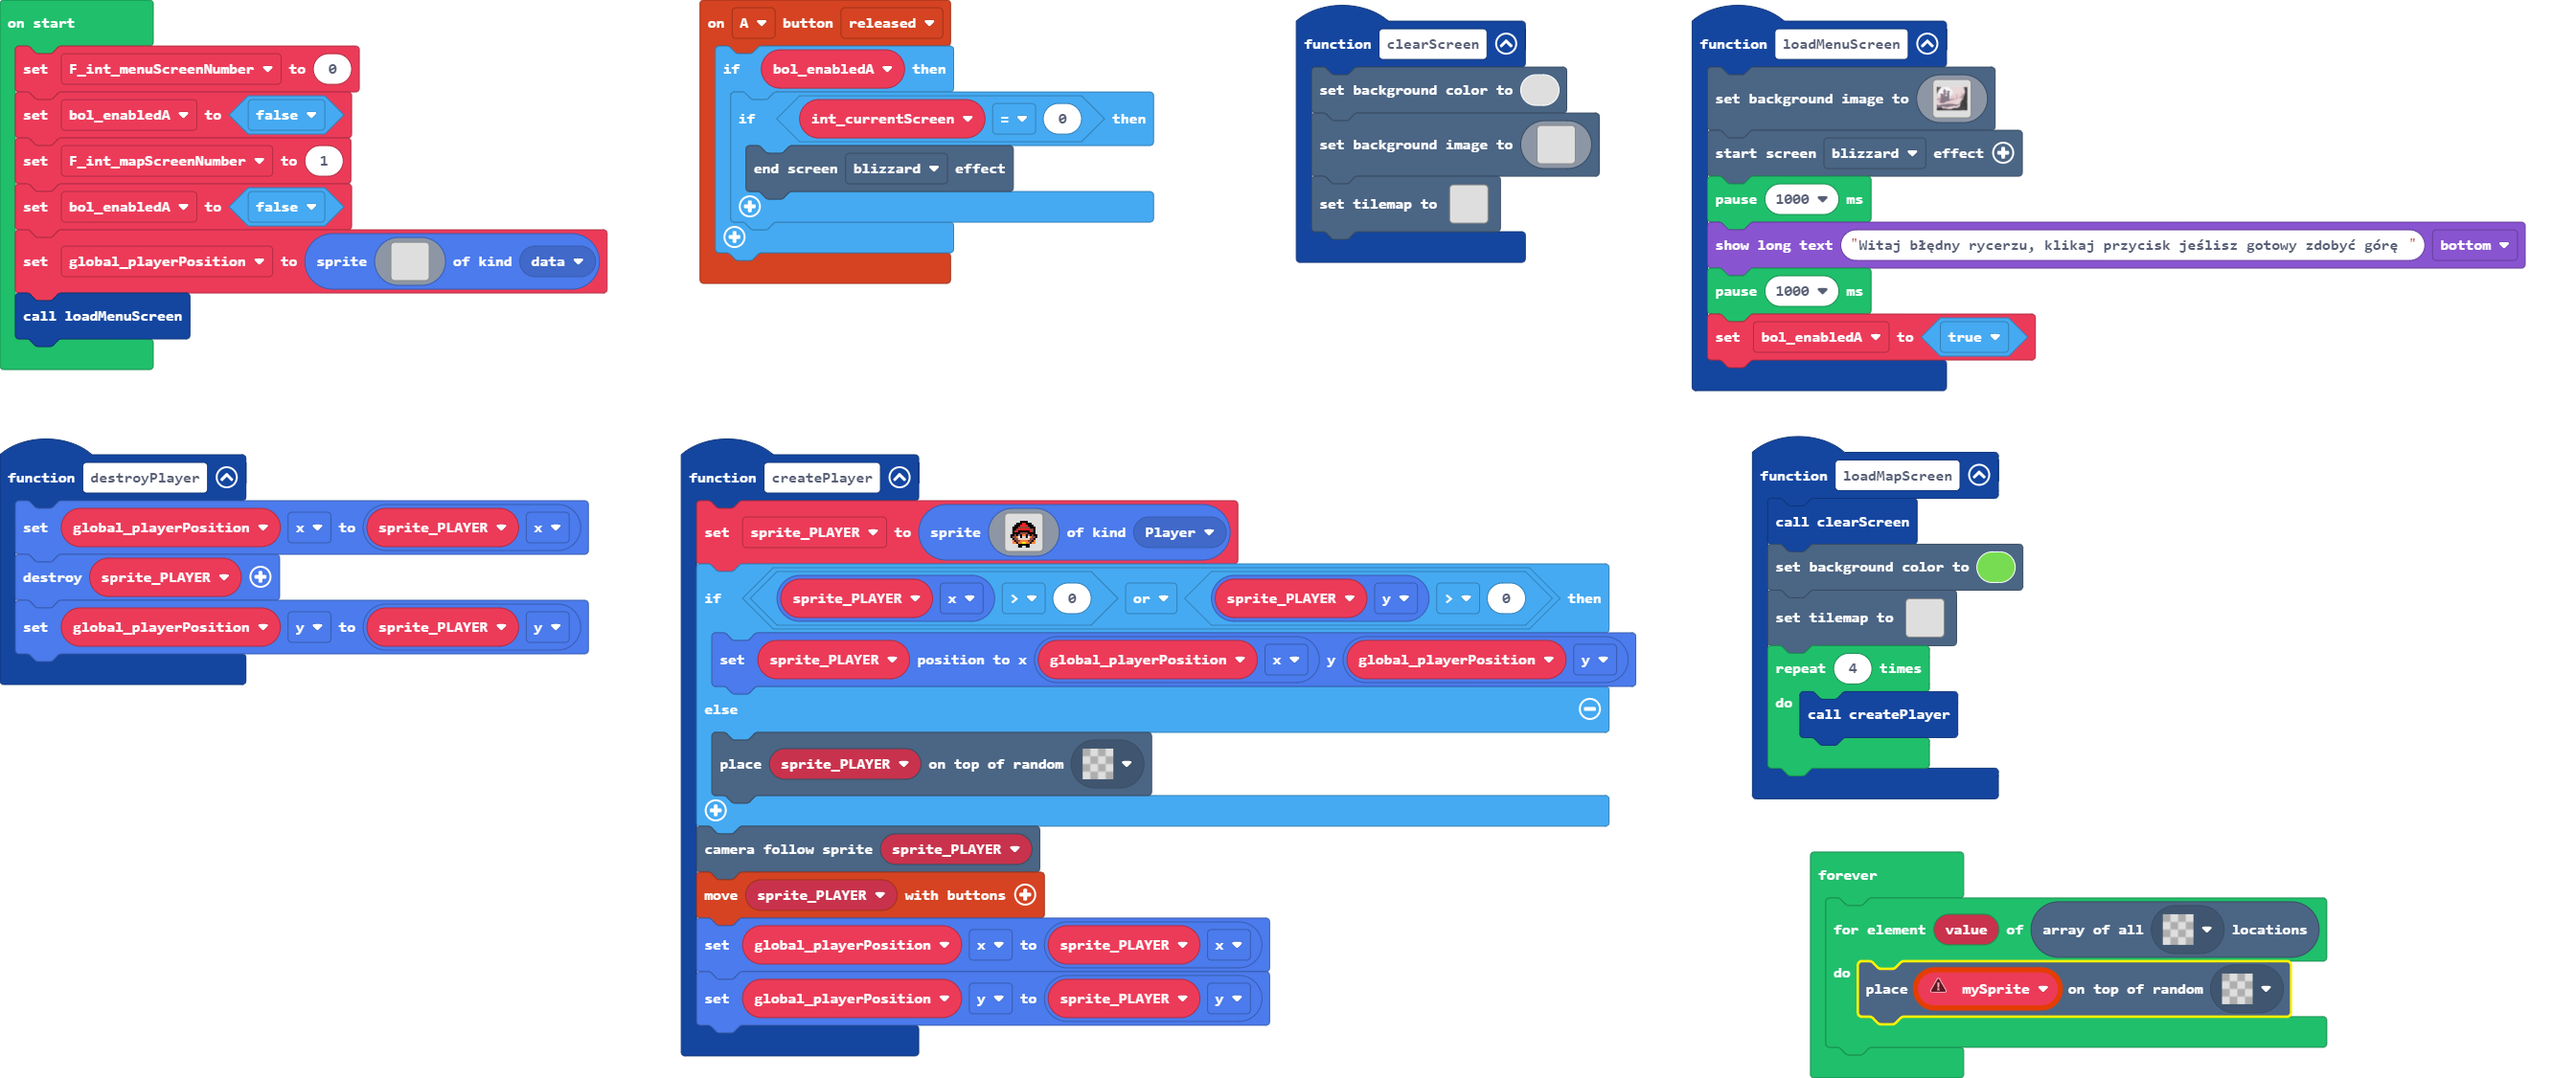
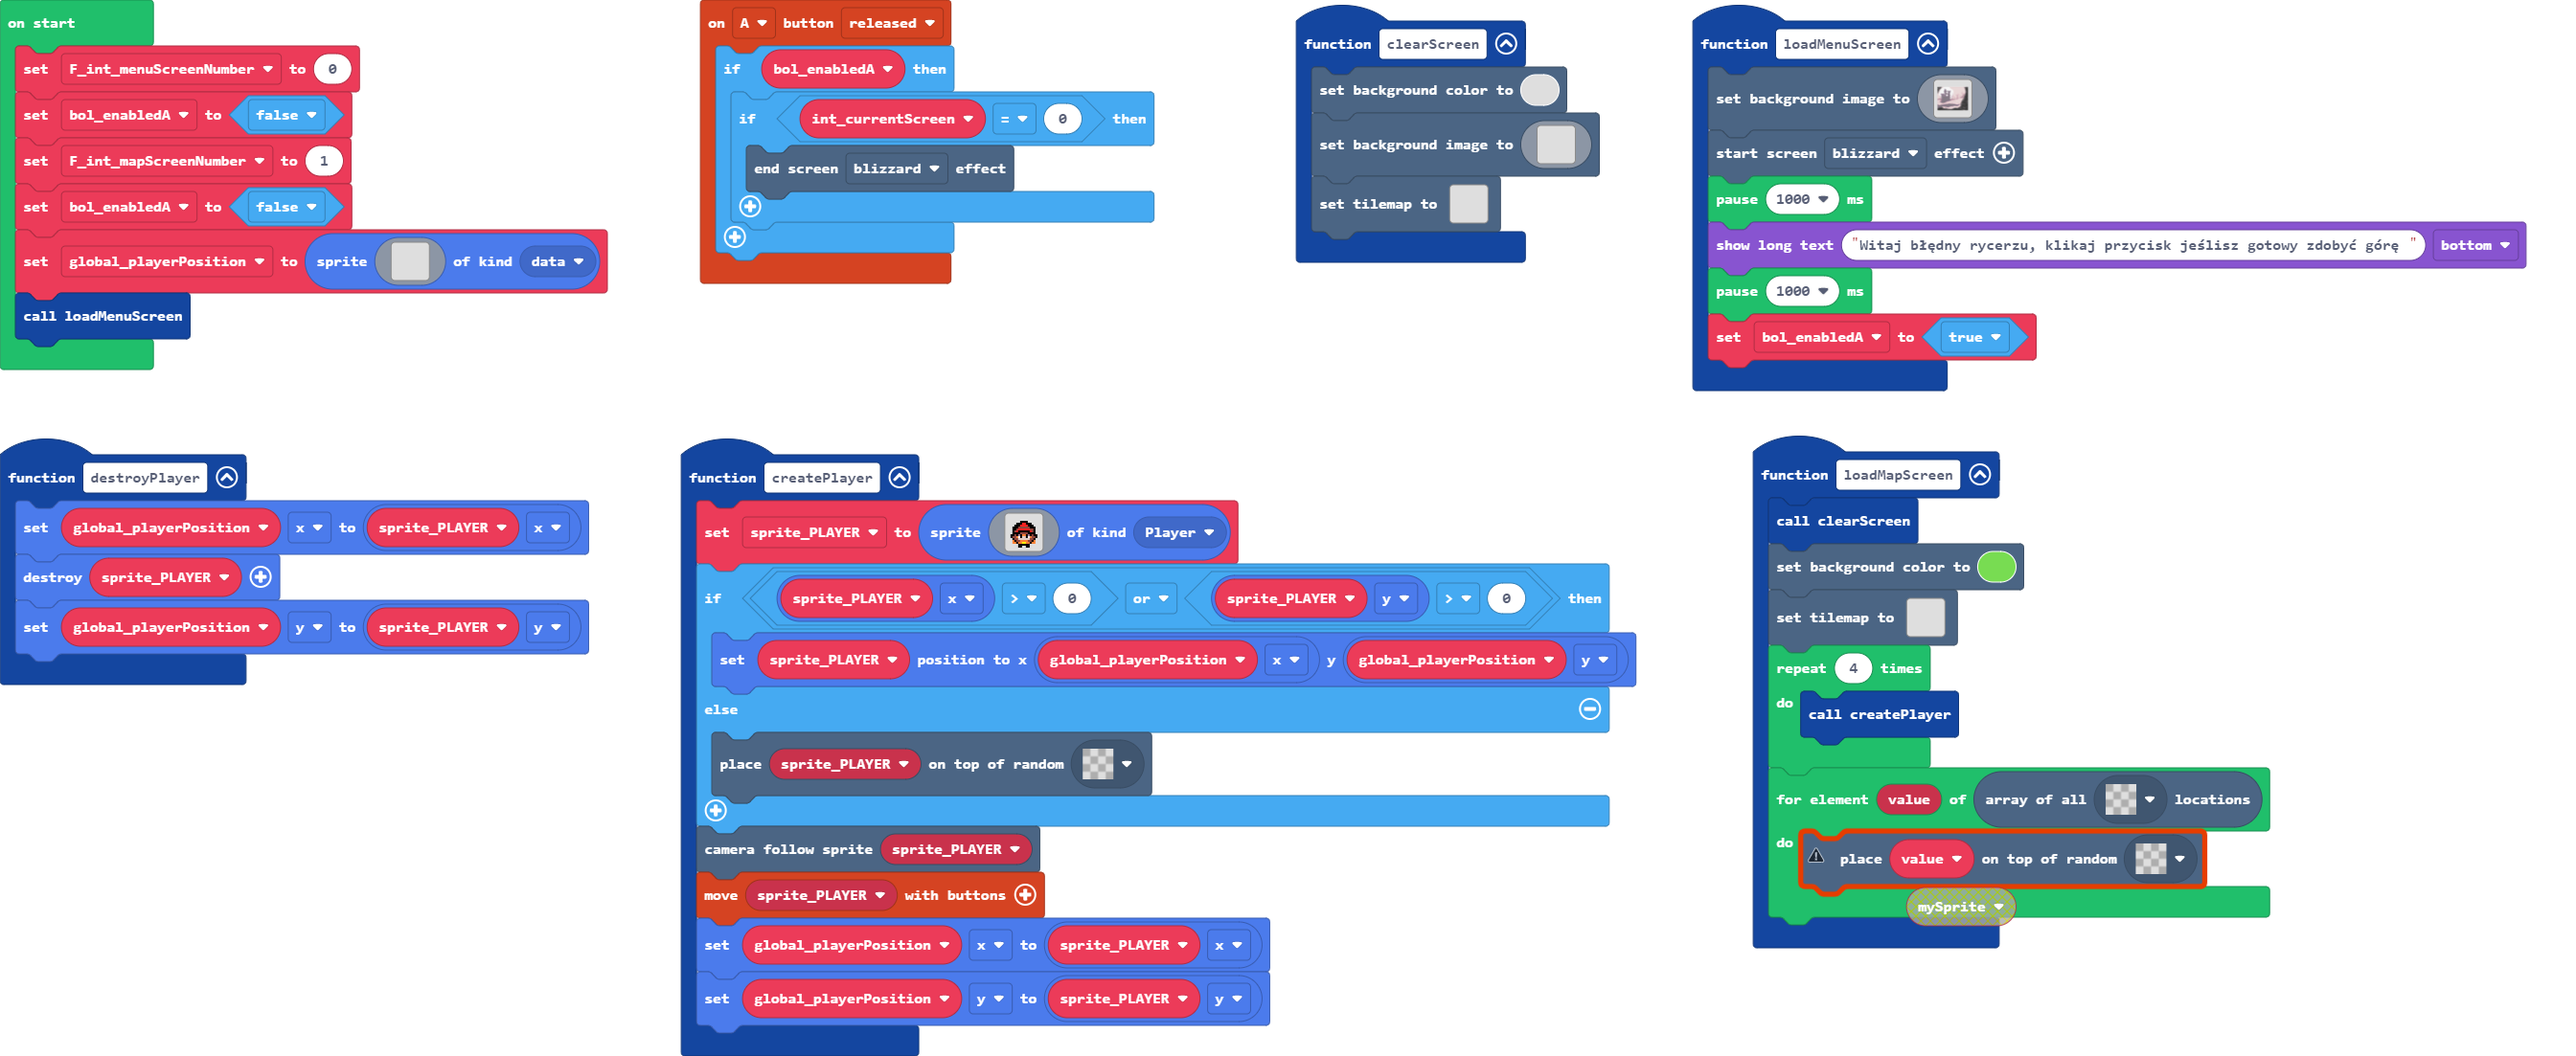
Update main.blocks, main.ts

diff --git a/main.ts b/main.ts
@@ -305,6 +305,9 @@ function loadMapScreen () {
     for (let index = 0; index < 4; index++) {
         createPlayer()
     }
+    for (let value of tiles.getTilesByType(assets.tile`transparency16`)) {
+        tiles.placeOnRandomTile(value, assets.tile`transparency16`)
+    }
 }
 let sprite_PLAYER: Sprite = null
 let global_playerPosition: Sprite = null
@@ -332,9 +335,3 @@ global_playerPosition = sprites.create(img`
     . . . . . . . . . . . . . . . . 
     `, SpriteKind.data)
 loadMenuScreen()
-forever(function () {
-    for (let value of tiles.getTilesByType(assets.tile`transparency16`)) {
-        let mySprite: Sprite = null
-        tiles.placeOnRandomTile(mySprite, assets.tile`transparency16`)
-    }
-})
